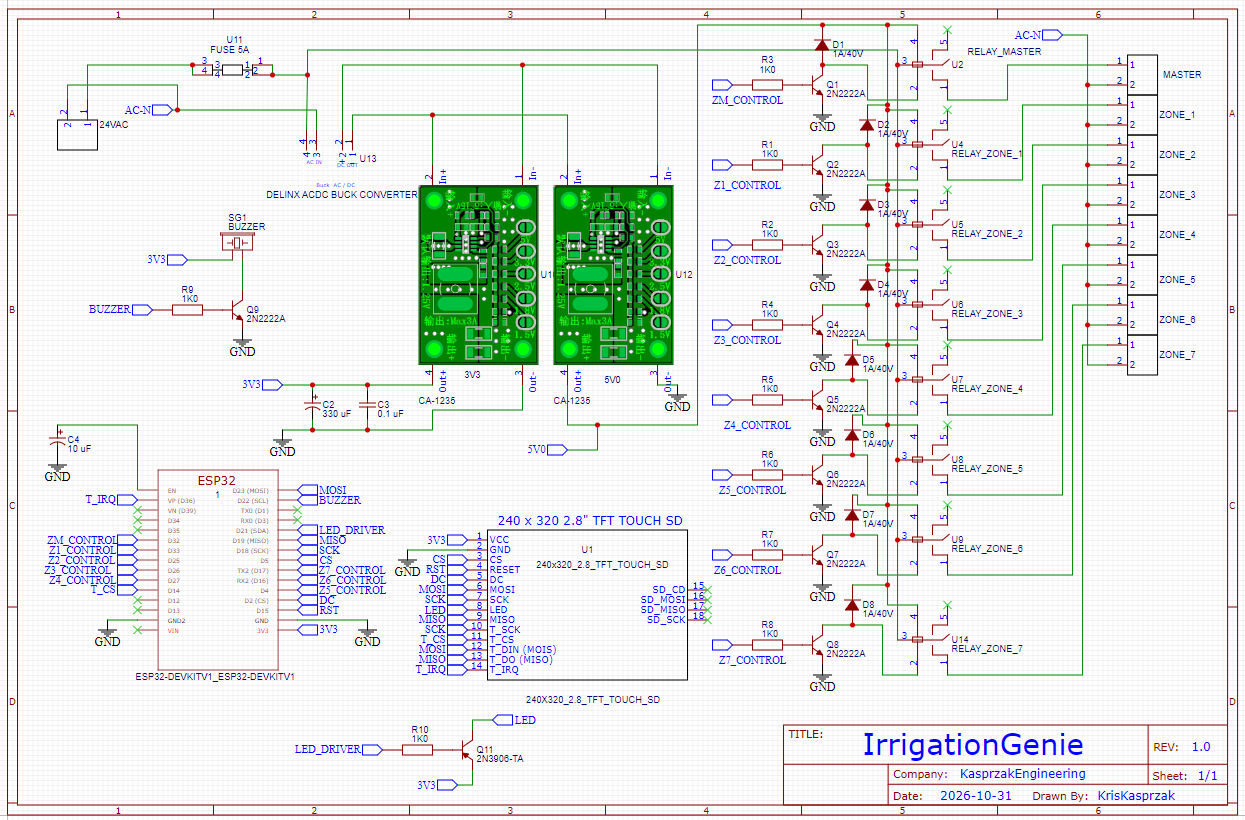
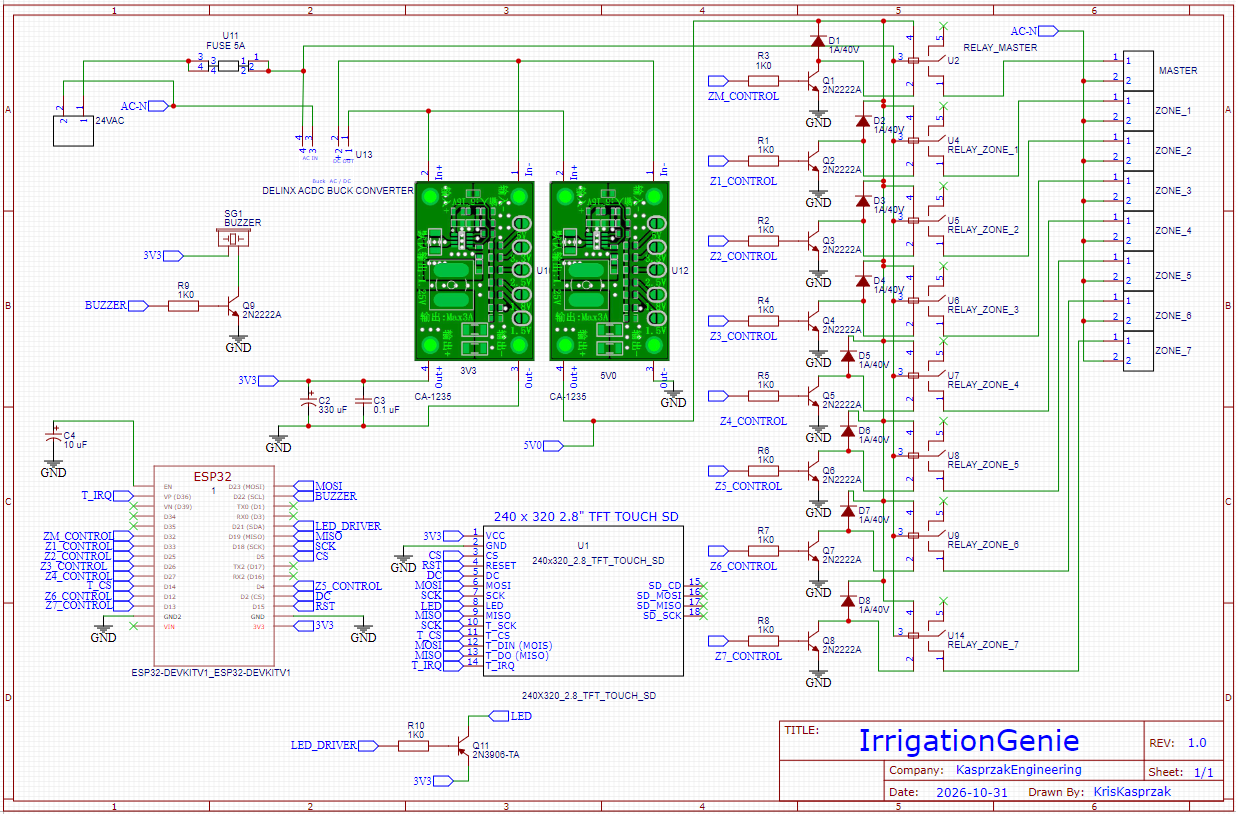
Move zones 6/7 to GPIO 12/13, add manual zone grid on home
- Zone 6 -> GPIO 12, zone 7 -> GPIO 13 (16/17 now free, WROVER safe);
  pin comments note GPIO 12 is a strapping pin that must stay low at boot
- Manual mode: home card shows all 7 zones + OFF; a tap opens the zone
  popup with a run time, for every zone whether or not it is scheduled
- Updated wiring schematic, README pin table and screens, new
  tft-manual screenshot and overview
- Relay test in setup kept commented out

diff --git a/IrrigationGenie/Config.h b/IrrigationGenie/Config.h
@@ -40,7 +40,19 @@
 #define NUM_OUTPUTS 8  // master + 7 zones
 
 // index 0 = master valve, 1..7 = zones. these pins do not glitch at boot
-const uint8_t OUTPUT_PINS[NUM_OUTPUTS] = { 32, 33, 25, 26, 27, 4, 16, 17 };
+// zone 6 = GPIO 12, zone 7 = GPIO 13 (moved from 16 / 17, which are now free; 16 / 17 are PSRAM on WROVER)
+// GPIO 12 is a boot strapping pin: it must not be pulled HIGH at power up. The 2N2222A driver
+// (1k to the base) keeps it low; do not add a pull-up on it
+const uint8_t OUTPUT_PINS[NUM_OUTPUTS] = {
+  32,  // master valve
+  33,  // zone 1
+  25,  // zone 2
+  26,  // zone 3
+  27,  // zone 4
+  4,   // zone 5
+  12,  // zone 6 (moved from 16, strapping pin, keep low at boot)
+  13   // zone 7 (moved from 17)
+};
 
 // false: each relay is driven by a 2N2222A (see docs/screenshots/Wiring.png), pin HIGH = relay on
 // true:  relay modules with active low inputs, pin LOW = relay on

diff --git a/tools/screens/scenes.cpp b/tools/screens/scenes.cpp
@@ -106,6 +106,20 @@ int main() {
   GoScreen(SCR_HOME);
   Dump("tft-home");
 
+  // manual mode: zone grid on the home card, zone 2 running
+  cfg.mode = MODE_MANUAL;
+  run[1].on = true;
+  run[1].source = SRC_MANUAL;
+  run[1].durMs = 900000;
+  run[1].startMs = g_millis - 141000;
+  ApplyOutputs();
+  Pulse = true;
+  GoScreen(SCR_HOME);
+  Dump("tft-manual");
+  memset(run, 0, sizeof(run));
+  ApplyOutputs();
+  cfg.mode = MODE_SMART;
+
   GoScreen(SCR_SMART);
   Dump("tft-smart");
 

diff --git a/README.md b/README.md
@@ -14,7 +14,8 @@ in hot, dry spells.
 
 ## Features
 
-- **Three watering modes:** Manual, Schedule (2 start times, days of week, minutes per zone) and Smart
+- **Three watering modes:** Manual (tap any of the 7 zones on the home screen and pick a run time,
+  whether or not the zone is in the schedule), Schedule (2 start times, days of week, minutes per zone) and Smart
 - **Smart watering** from free [Open-Meteo](https://open-meteo.com) forecasts, no API key needed (see below)
 - **7 zones + master valve:** the master opens only while a zone runs; safety cutoff, one zone at a time by default
 - **Winter mode:** closes the master and opens every zone to drain the lines
@@ -43,6 +44,8 @@ All screens below are rendered from the actual firmware drawing code (see [Scree
 | Yard map, zone 3 running | Manual zone control | Schedule |
 | ![Usage](docs/screenshots/tft-usage.png) | ![Info](docs/screenshots/tft-info.png) | ![Settings](docs/screenshots/tft-settings.png) |
 | 30-day usage | Location, time zone, network | Settings |
+| ![Manual](docs/screenshots/tft-manual.png) | ![WiFi setup](docs/screenshots/tft-wifi.png) | ![Screen saver](docs/screenshots/tft-saver.png) |
+| Manual mode: tap any zone to run it | WiFi setup | Screen saver |
 
 ## Phone app
 
@@ -77,7 +80,7 @@ the eight relay driver stages, the buzzer and the backlight switch. Click the im
 | 21 | TFT backlight PWM, through a 2N3906 PNP (1 kΩ to the base, emitter to 3.3V, collector to TFT LED) |
 | 22 | piezo, through a 2N2222A (1 kΩ to the base) |
 | 32 | master valve relay |
-| 33, 25, 26, 27, 4, 16, 17 | zone 1..7 relays |
+| 33, 25, 26, 27, 4, 12, 13 | zone 1..7 relays |
 
 The output pins were chosen so the relays don't click during boot. Settings in
 [`Config.h`](IrrigationGenie/Config.h):
@@ -88,7 +91,9 @@ The output pins were chosen so the relays don't click during boot. Settings in
 - `CLICK_HZ` / `CLICK_MS`: pitch and length of the key click
 
 Never connect valves to the ESP32 directly. If touch is unreliable, disconnect the TFT's SDO (MISO) pin;
-the display doesn't need it. On WROVER modules GPIO 16/17 are used by PSRAM, so move zones 6/7.
+the display doesn't need it. GPIO 12 (zone 6) is a boot strapping pin: it must not be pulled HIGH at
+power-up, so don't add a pull-up to it (the transistor driver keeps it low). GPIO 16/17 are left free,
+which also keeps the design compatible with WROVER modules (PSRAM).
 
 ## Building
 
